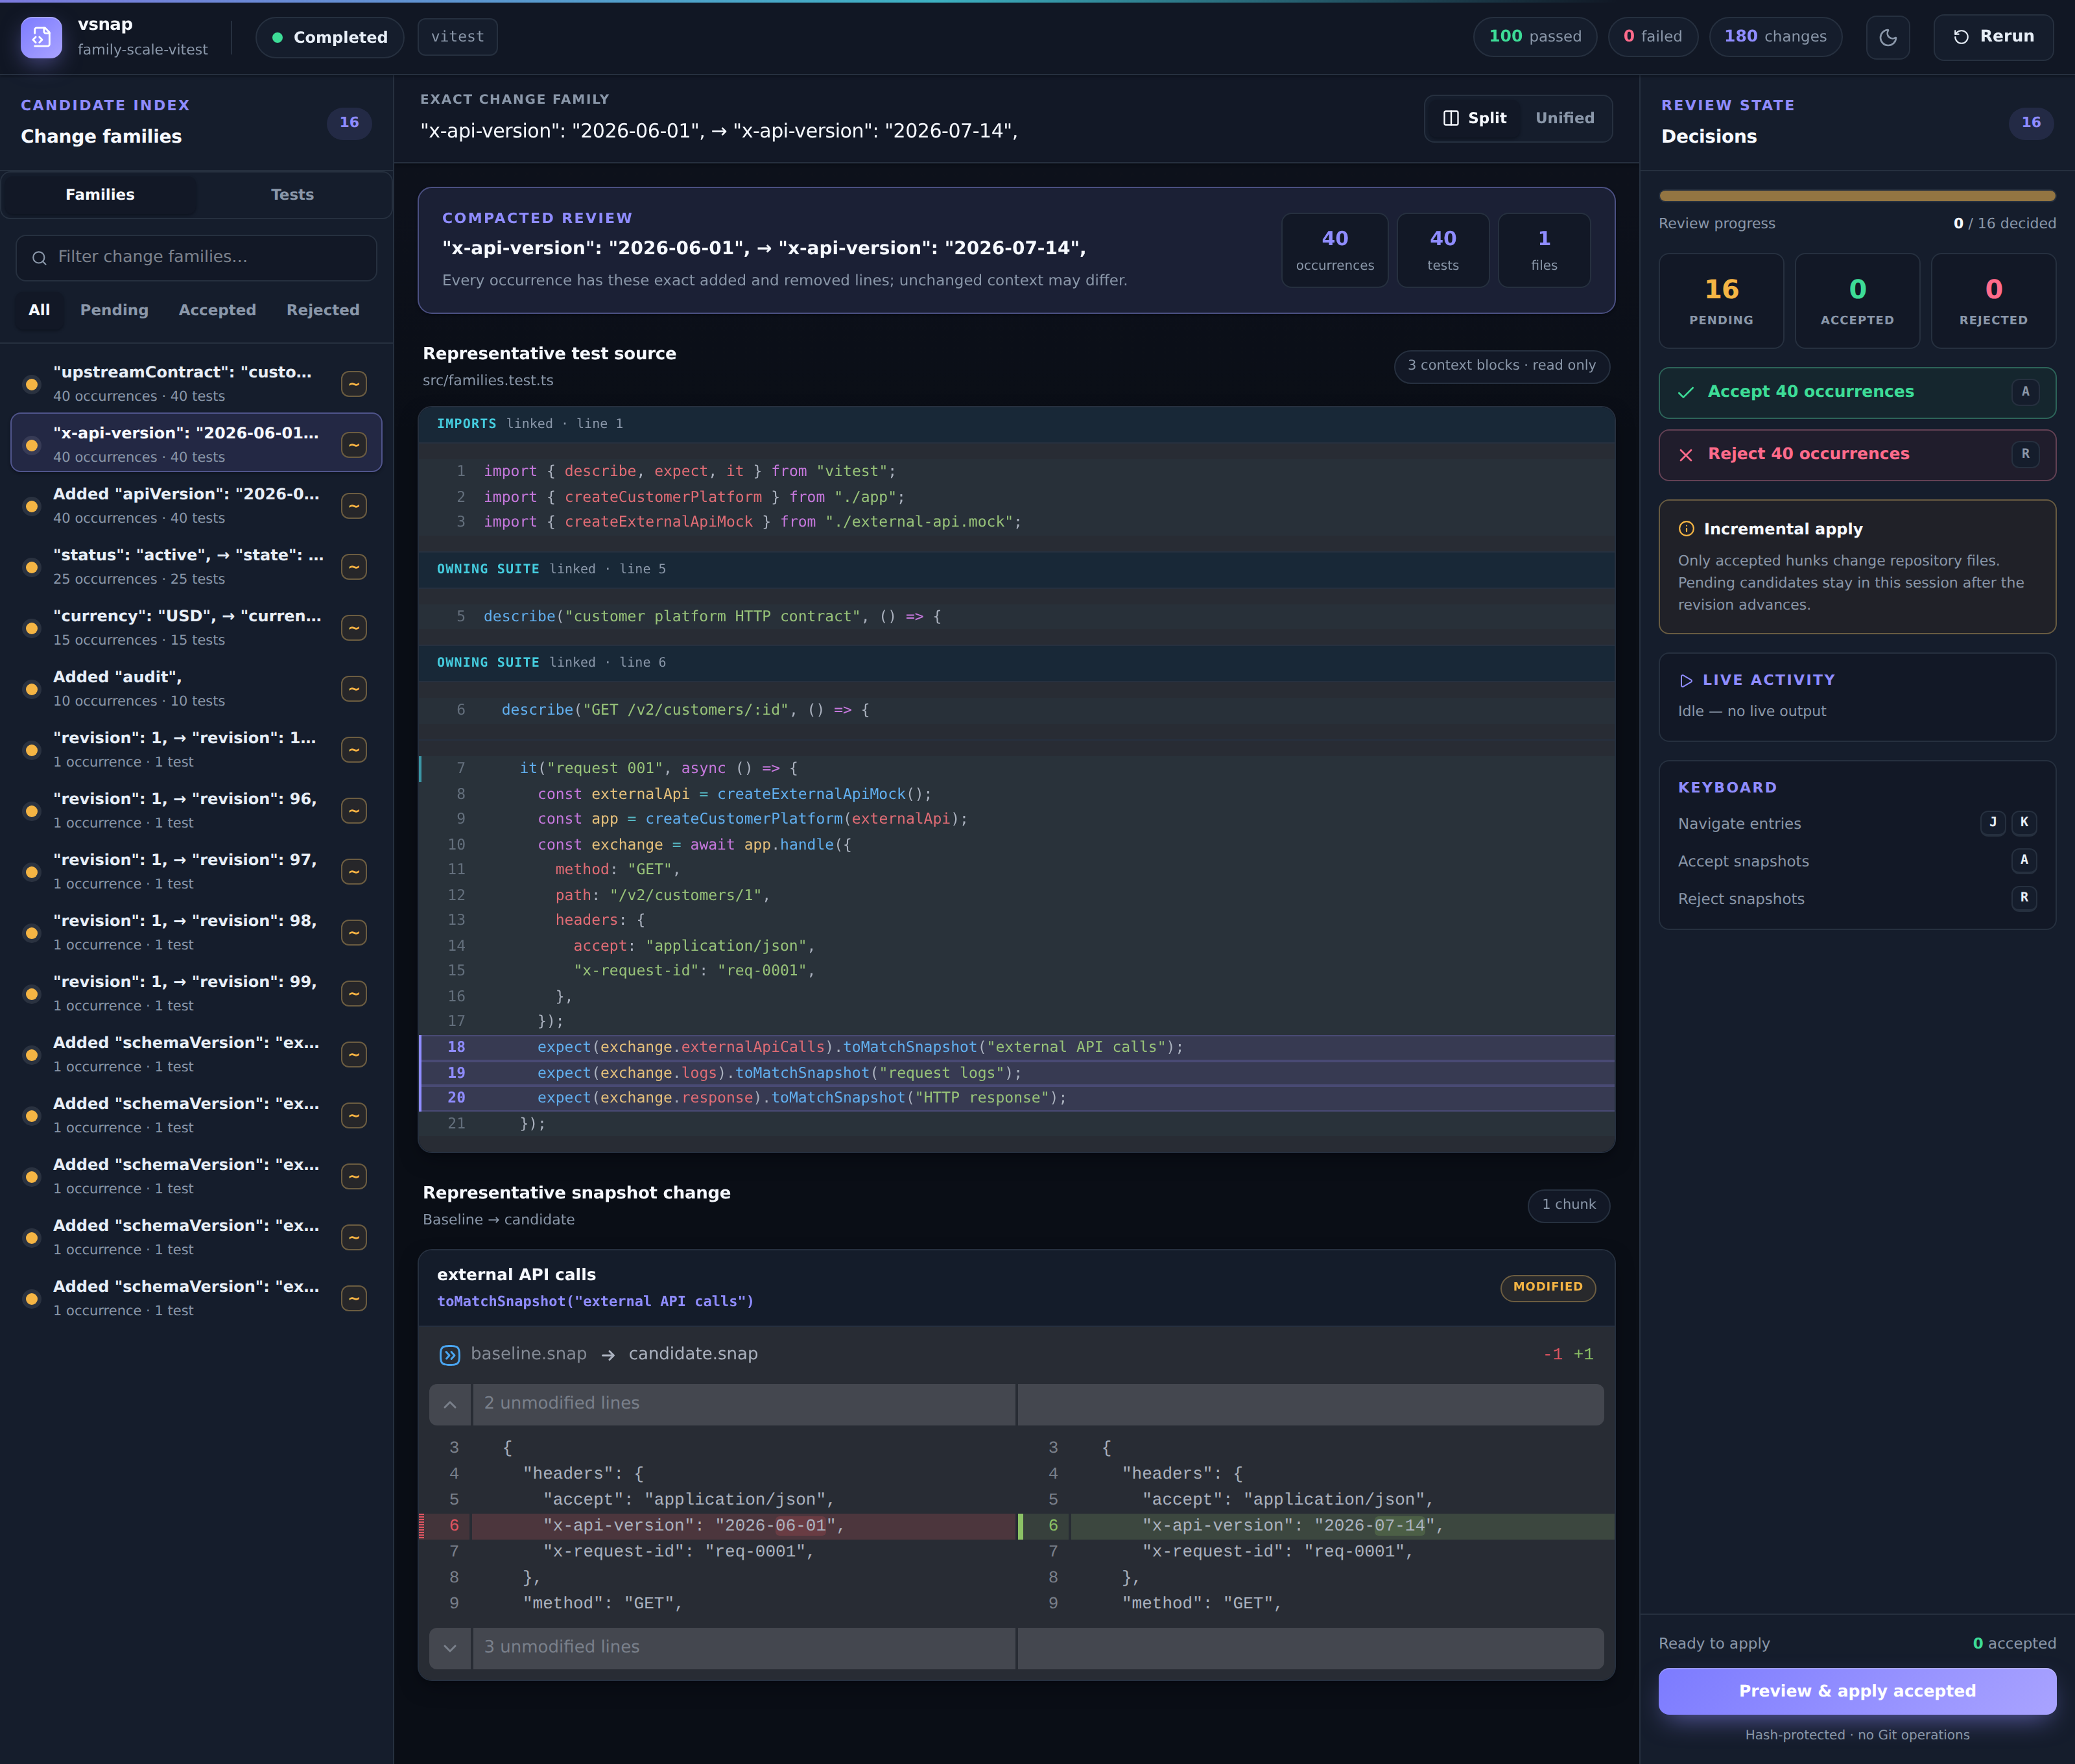
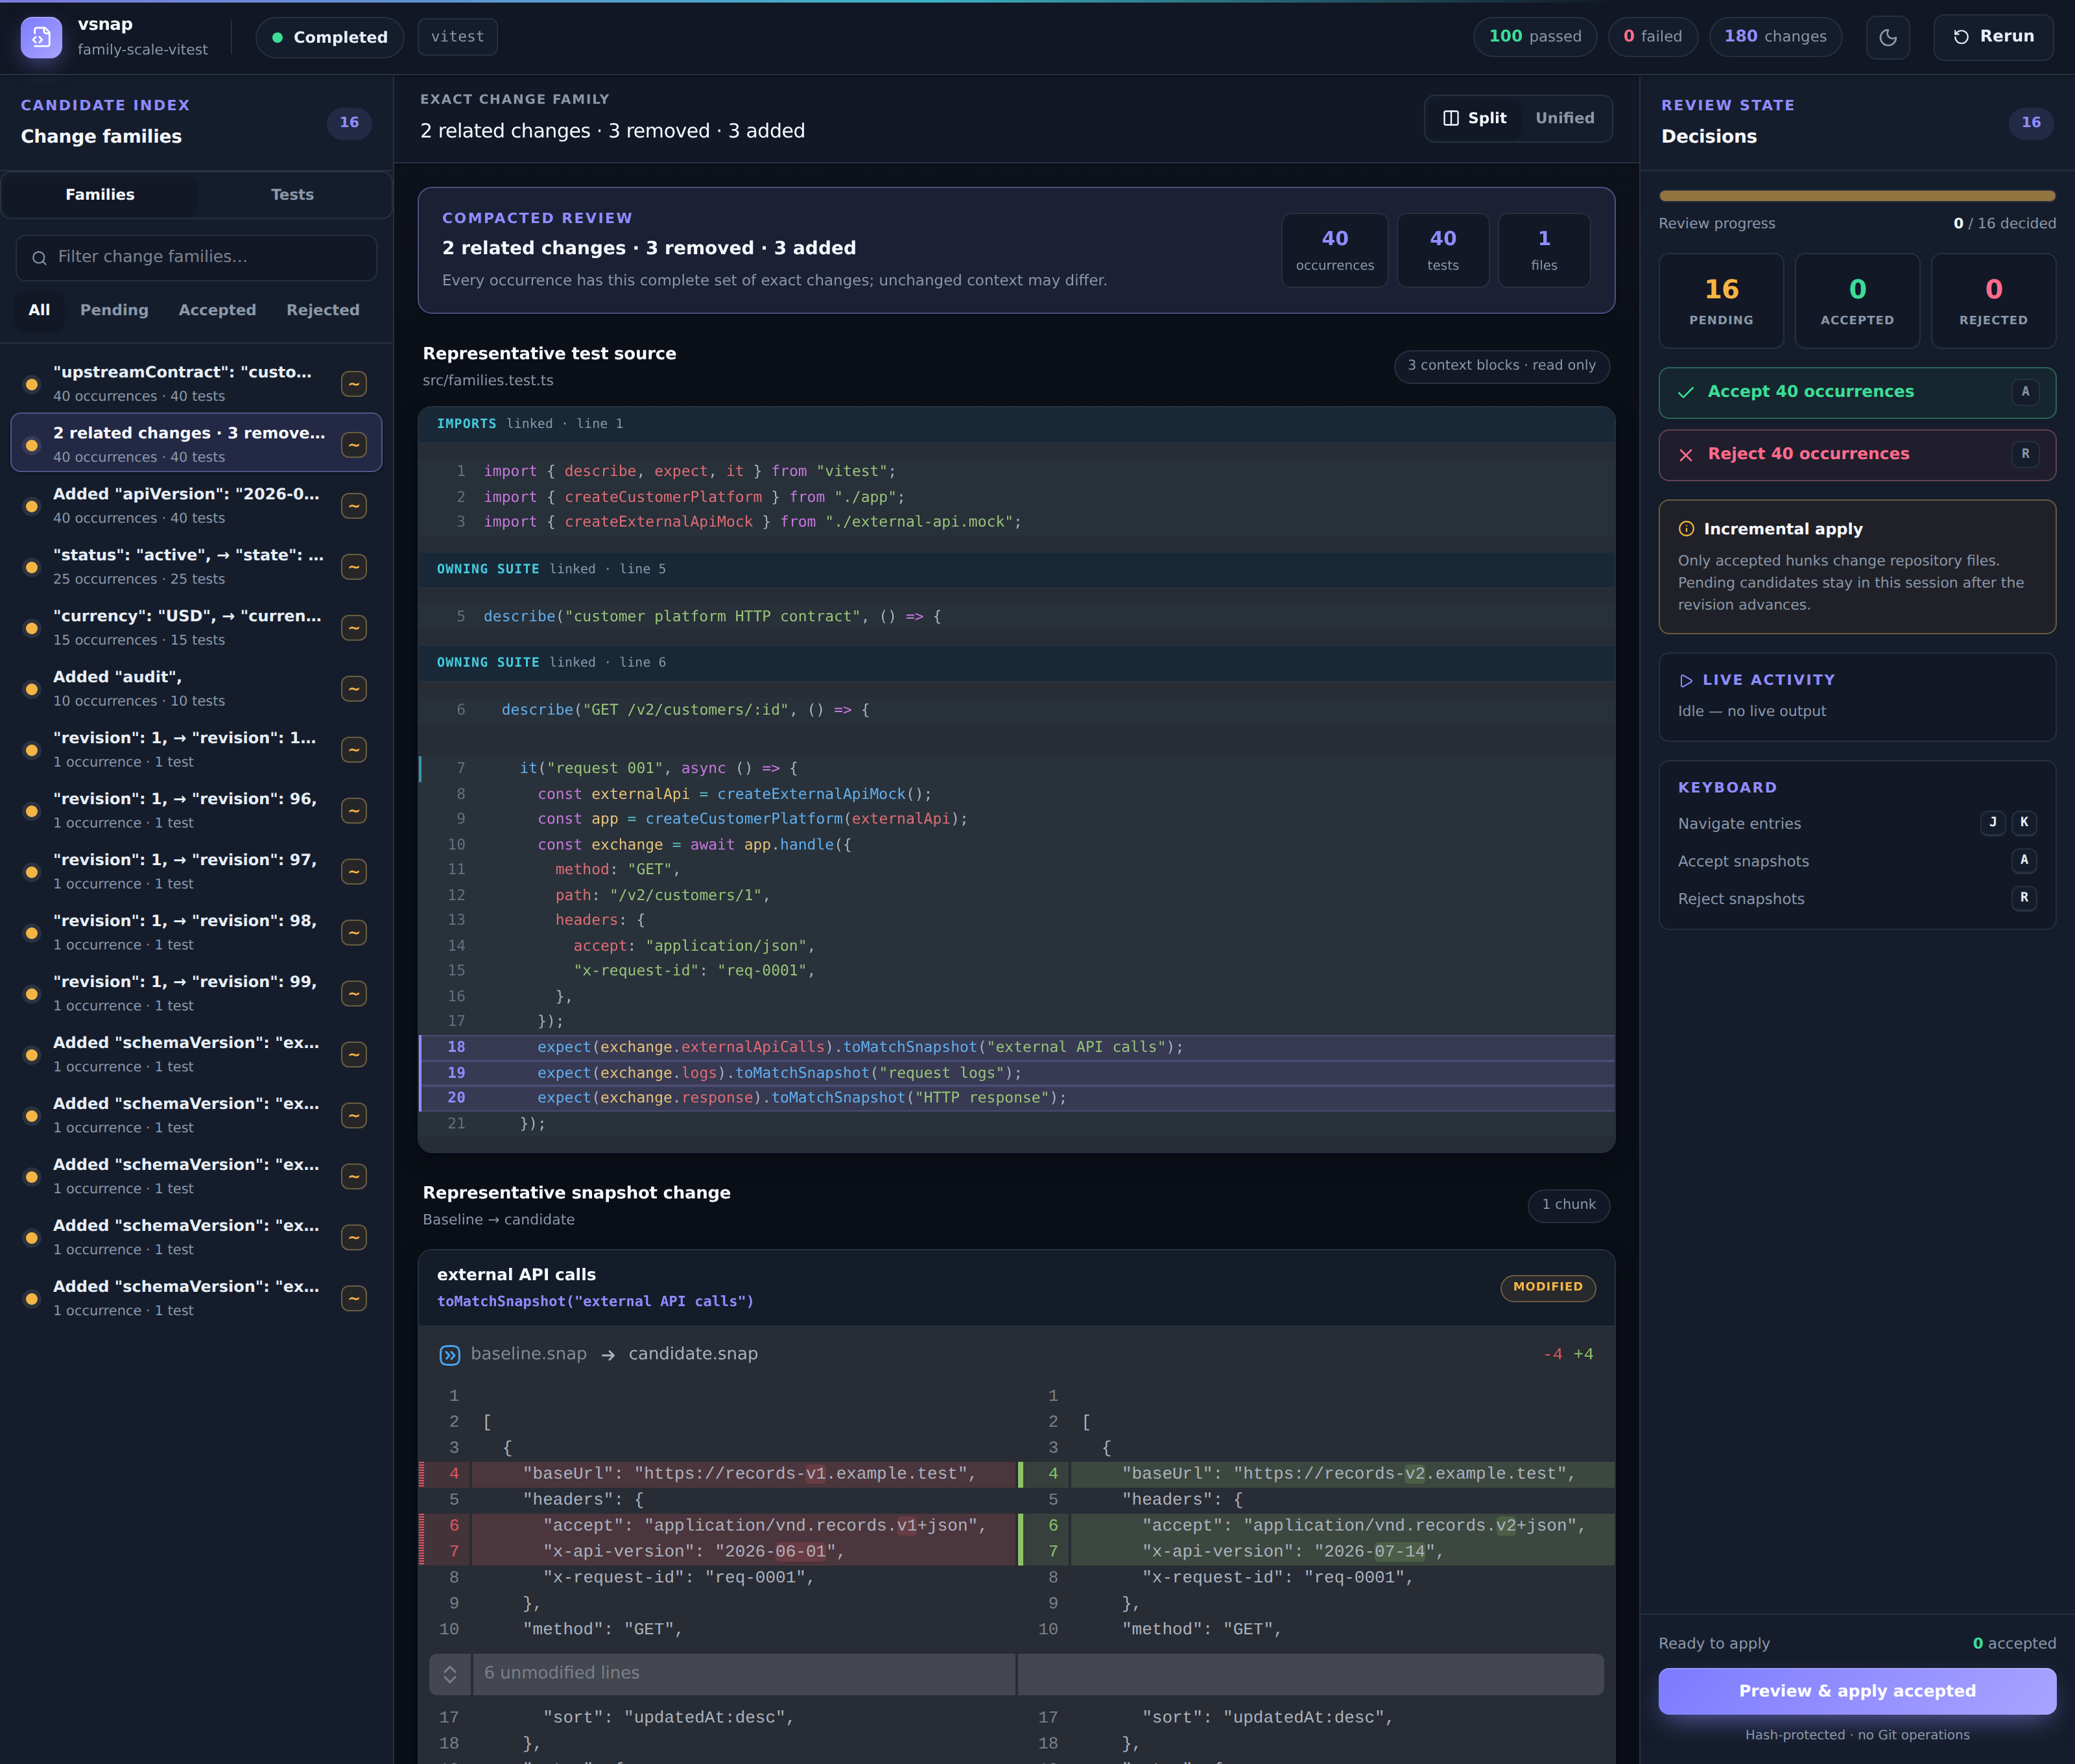
Group complete snapshot diffs into families

diff --git a/packages/application/src/application.ts b/packages/application/src/application.ts
@@ -66,8 +66,28 @@ export function createSnapshotApplication(
   const controllers = new Map<string, AbortController>();
   const exactFamilyId = (contentHash: string) =>
     stableId("family", contentHash);
-  const familyHash = (hunk: ReviewIndex["hunks"][number]) =>
+  const hunkChangeHash = (hunk: ReviewIndex["hunks"][number]) =>
     hunk.changeHash ?? hunk.contentHash;
+  const exactFamilyIndex = (index: ReviewIndex) => {
+    const hunksByEntry = new Map<string, typeof index.hunks>();
+    for (const hunk of index.hunks) {
+      const hunks = hunksByEntry.get(hunk.entryId);
+      if (hunks) hunks.push(hunk);
+      else hunksByEntry.set(hunk.entryId, [hunk]);
+    }
+    const hashByEntry = new Map<string, string>();
+    for (const [entryId, hunks] of hunksByEntry) {
+      hunks.sort(
+        (left, right) =>
+          left.oldStart - right.oldStart || left.newStart - right.newStart,
+      );
+      hashByEntry.set(
+        entryId,
+        sha256(JSON.stringify(hunks.map((hunk) => hunkChangeHash(hunk)))),
+      );
+    }
+    return { hashByEntry, hunksByEntry };
+  };
 
   async function entryValues(
     session: ReviewSession,
@@ -93,12 +113,11 @@ export function createSnapshotApplication(
     selector: string,
   ): StoredReviewEntry[] {
     if (selector.startsWith("family_")) {
-      const entryIds = new Set(
-        index.hunks
-          .filter((hunk) => exactFamilyId(familyHash(hunk)) === selector)
-          .map((hunk) => hunk.entryId),
-      );
-      return index.entries.filter((entry) => entryIds.has(entry.id));
+      const familyIndex = exactFamilyIndex(index);
+      return index.entries.filter((entry) => {
+        const fingerprint = familyIndex.hashByEntry.get(entry.id);
+        return Boolean(fingerprint && exactFamilyId(fingerprint) === selector);
+      });
     }
     if (selector.startsWith("entry_"))
       return index.entries.filter((entry) => entry.id === selector);
@@ -336,23 +355,19 @@ export function createSnapshotApplication(
         return entry.testName?.replace(/ > [^>]+$/, "") ?? entry.key;
       };
       if (input.kind === "family") {
-        const groups = new Map<string, typeof index.hunks>();
-        const entryById = new Map(
-          index.entries.map((entry) => [entry.id, entry]),
-        );
+        const familyIndex = exactFamilyIndex(index);
+        const groups = new Map<string, StoredReviewEntry[]>();
         const fileById = new Map(index.files.map((file) => [file.id, file]));
-        for (const hunk of index.hunks) {
-          const fingerprint = familyHash(hunk);
+        for (const entry of index.entries) {
+          const fingerprint = familyIndex.hashByEntry.get(entry.id);
+          if (!fingerprint) continue;
           const group = groups.get(fingerprint);
-          if (group) group.push(hunk);
-          else groups.set(fingerprint, [hunk]);
+          if (group) group.push(entry);
+          else groups.set(fingerprint, [entry]);
         }
-        for (const [contentHash, hunks] of groups) {
-          const entryIds = [...new Set(hunks.map((hunk) => hunk.entryId))];
-          const entries = entryIds.flatMap((entryId) => {
-            const entry = entryById.get(entryId);
-            return entry ? [entry] : [];
-          });
+        for (const [contentHash, entries] of groups) {
+          const entryIds = entries.map((entry) => entry.id);
+          const hunks = hunksFor(entryIds);
           const testIds = new Set(
             entries.map((entry) => {
               const file = fileById.get(entry.fileId);
@@ -365,24 +380,25 @@ export function createSnapshotApplication(
             }),
           );
           const firstEntry = entries[0];
-          const firstHunk = hunks[0];
+          const representativeHunks = firstEntry
+            ? (familyIndex.hunksByEntry.get(firstEntry.id) ?? [])
+            : [];
+          const firstHunk = representativeHunks[0];
           if (!firstEntry || !firstHunk) continue;
           const changeTypes = new Set(entries.map((entry) => entry.changeType));
           nodes.push({
             id: exactFamilyId(contentHash),
             kind: "family",
             entryId: firstEntry.id,
-            label: firstHunk.summary ?? "Exact snapshot change",
-            decision: deriveDecision(
-              hunks.map((hunk) => ({
-                ...hunk,
-                decision: decisions[hunk.id] ?? ("pending" as const),
-              })),
-            ),
+            label:
+              representativeHunks.length === 1
+                ? (firstHunk.summary ?? "Exact snapshot change")
+                : `${representativeHunks.length} related changes · ${firstHunk.summary ?? "exact snapshot diff"}`,
+            decision: deriveDecision(hunks),
             ...(changeTypes.size === 1
               ? { changeType: firstEntry.changeType }
               : {}),
-            childCount: hunks.length,
+            childCount: entries.length,
             familyHash: contentHash,
             testCount: testIds.size,
             fileCount: new Set(entries.map((entry) => entry.fileId)).size,
@@ -732,17 +748,9 @@ export function createSnapshotApplication(
         const supportedEntryIds = new Set(entries.map((entry) => entry.id));
         const ids = input.selector.startsWith("hunk_")
           ? [input.selector]
-          : input.selector.startsWith("family_")
-            ? index.hunks
-                .filter(
-                  (hunk) =>
-                    supportedEntryIds.has(hunk.entryId) &&
-                    exactFamilyId(familyHash(hunk)) === input.selector,
-                )
-                .map((hunk) => hunk.id)
-            : index.hunks
-                .filter((hunk) => supportedEntryIds.has(hunk.entryId))
-                .map((hunk) => hunk.id);
+          : index.hunks
+              .filter((hunk) => supportedEntryIds.has(hunk.entryId))
+              .map((hunk) => hunk.id);
         if (ids.length === 0)
           throw new VsnapError("SELECTOR_NOT_FOUND", input.selector);
         const decisions = await store.readDecisions(session);

diff --git a/packages/application/src/integration.test.ts b/packages/application/src/integration.test.ts
@@ -94,6 +94,35 @@ describe("transactional integration", () => {
       firstFamilyHunk.changeHash ?? firstFamilyHunk.contentHash;
     if (firstFamilyHunk.summary !== undefined)
       secondFamilyHunk.summary = firstFamilyHunk.summary;
+    familyIndex.hunks.push(
+      {
+        ...firstFamilyHunk,
+        id: "hunk_first-entry-second-change",
+        oldStart: firstFamilyHunk.oldStart + 100,
+        newStart: firstFamilyHunk.newStart + 100,
+        contentHash: "first-entry-second-content",
+        changeHash: "shared-second-change",
+        summary: "Second related change",
+      },
+      {
+        ...secondFamilyHunk,
+        id: "hunk_second-entry-second-change",
+        oldStart: secondFamilyHunk.oldStart + 100,
+        newStart: secondFamilyHunk.newStart + 100,
+        contentHash: "second-entry-second-content",
+        changeHash: "different-second-change",
+        summary: "Second related change",
+      },
+    );
+    await store.writeIndex(session, familyIndex);
+    const splitFamilies = await app.listNodes({
+      sessionId: session.id,
+      kind: "family",
+    });
+    expect(splitFamilies.items).toHaveLength(2);
+    const secondRelatedHunk = familyIndex.hunks.at(-1);
+    if (!secondRelatedHunk) throw new Error("Expected a second related hunk");
+    secondRelatedHunk.changeHash = "shared-second-change";
     await store.writeIndex(session, familyIndex);
     const families = await app.listNodes({
       sessionId: session.id,
@@ -106,6 +135,7 @@ describe("transactional integration", () => {
       childCount: 2,
       testCount: 1,
       fileCount: 1,
+      label: expect.stringContaining("2 related changes"),
     });
     const family = families.items[0];
     if (!family) throw new Error("Expected one exact change family");
@@ -114,7 +144,7 @@ describe("transactional integration", () => {
       selector: family.id,
       decision: "accepted",
     });
-    expect(familyDecision.affectedHunks).toHaveLength(2);
+    expect(familyDecision.affectedHunks).toHaveLength(4);
     const unsafeIndex = await store.readIndex(session);
     const sourceFile = unsafeIndex.files[0];
     if (!sourceFile) throw new Error("Expected indexed snapshot file");

diff --git a/apps/web/src/screens/ReviewPage.tsx b/apps/web/src/screens/ReviewPage.tsx
@@ -122,11 +122,8 @@ export function ReviewPage() {
       (review.data?.entries ?? [])
         .filter(
           (entry) =>
-            !activeNode?.familyHash ||
-            entry.hunks.some(
-              (hunk) =>
-                (hunk.changeHash ?? hunk.contentHash) === activeNode.familyHash,
-            ),
+            activeNode?.kind !== "family" ||
+            entry.entryId === activeNode.entryId,
         )
         .map((entry) => {
           const language = inferSnapshotLanguage(
@@ -154,7 +151,7 @@ export function ReviewPage() {
             ),
           };
         }),
-    [activeNode?.familyHash, review.data],
+    [activeNode?.entryId, activeNode?.kind, review.data],
   );
   const visibleEntryIds = useMemo(
     () => review.data?.entries.map((entry) => entry.entryId) ?? [],
@@ -440,8 +437,8 @@ export function ReviewPage() {
                       <span className="kicker">Compacted review</span>
                       <strong>{activeNode.label}</strong>
                       <p>
-                        Every occurrence has these exact added and removed
-                        lines; unchanged context may differ.
+                        Every occurrence has this complete set of exact changes;
+                        unchanged context may differ.
                       </p>
                     </div>
                     <div className="family-metrics">

diff --git a/packages/protocol/src/index.ts b/packages/protocol/src/index.ts
@@ -191,7 +191,7 @@ export interface ReviewNode {
   changeType?: ChangeType;
   status?: string;
   childCount: number;
-  /** Exact diff fingerprint when this node represents a change family. */
+  /** Exact complete-entry diff fingerprint for a change family. */
   familyHash?: string;
   testCount?: number;
   fileCount?: number;

diff --git a/README.md b/README.md
@@ -72,12 +72,13 @@ Snapshot updates are unusually expensive—especially for coding agents. A
 one-line API change can fail hundreds of tests, and sending every nearly
 identical diff to a model wastes context, tool calls, and tokens.
 
-`vitest-snapshot-tools` fingerprints the exact added and removed lines in every
-hunk and groups identical fingerprints into **change families**. You inspect one
-representative diff, see how many occurrences, tests, and files it affects, and
-accept or reject the entire exact family with a single decision. Singletons and
-genuine outliers stay separate, so compaction never hides a unique change or
-relies on a model guessing that two diffs are equivalent.
+`vitest-snapshot-tools` fingerprints the complete set of exact added and removed
+lines in each snapshot entry and groups identical full diffs into **change
+families**. You inspect one representative diff, see how many occurrences,
+tests, and files it affects, and accept or reject the entire exact family with a
+single decision. Multi-hunk changes stay together, while singletons and genuine
+outliers remain separate, so compaction never hides a unique change or relies
+on a model guessing that two diffs are equivalent.
 
 For the bundled 100-test scale example, the review workload shrinks like this:
 
@@ -133,9 +134,9 @@ snapshots or when an automated agent is doing the review.
 
 1. **Capture** — run Vitest with an overlay snapshot environment and store the
    baseline and candidate outside the repository.
-2. **Review** — compact identical added and removed lines into exact change
-   families, or inspect the imports, owning suite, linked hooks, focused test,
-   snapshot matcher, and full diff.
+2. **Review** — compact identical complete snapshot-entry diffs into exact
+   change families, or inspect the imports, owning suite, linked hooks, focused
+   test, snapshot matcher, and full diff.
 3. **Decide** — accept or reject a family, file, test, entry, or individual diff
    hunk.
 4. **Preview** — inspect the exact patch assembled from accepted hunks.

diff --git a/skills/review-vitest-snapshots/SKILL.md b/skills/review-vitest-snapshots/SKILL.md
@@ -10,10 +10,11 @@ Use `vsnap` as the sole interface to candidate snapshots. Never edit real snapsh
 ## Minimize model context
 
 Start with exact families. Do not enumerate or diff every entry when multiple
-hunks belong to the same family. A family is an exact added/removed-line
-fingerprint, not a semantic guess: inspect its representative `entryId` once,
-check its occurrence, test, and file counts, then make one family decision when
-the change is intended across that scope. Review singleton families separately.
+entries have the same complete diff. A family fingerprints the ordered set of
+exact added/removed-line hunks for a snapshot entry, not a semantic guess:
+inspect its representative `entryId` once, check its occurrence, test, and file
+counts, then make one family decision when the change is intended across that
+scope. Review singleton families separately.
 
 This ordering reduces CLI payloads, repeated diff content, tool calls, and model
 tokens without weakening the apply safeguards.
@@ -45,8 +46,8 @@ Do not skip preview. Pending hunks remain at their baseline in preview and remai
 
 Use typed `family_`, `file_`, `test_`, `entry_`, and `hunk_` IDs returned by
 `list`; use `--all` only when the request clearly approves the entire run.
-Family selectors are exact added/removed-line matches and expand to their
-underlying hunks.
+Family selectors are exact complete-entry diff matches and expand to every
+underlying hunk in each matching entry.
 Commands automatically forward to an authenticated active UI owner when
 present and otherwise operate directly under a session lock.
 

diff --git a/packages/vitest-snapshot-tools/README.md b/packages/vitest-snapshot-tools/README.md
@@ -30,10 +30,10 @@ Everything after `--` is passed to Vitest.
 ## Agent skill and token-efficient review
 
 A repeated API or rendering change can appear in hundreds of snapshots. Instead
-of sending every diff through an agent, the CLI groups hunks with exactly the
-same added and removed lines. The agent reviews one representative diff and can
-accept or reject all occurrences with one `family_...` selector. Unique changes
-remain separate.
+of sending every diff through an agent, the CLI groups snapshot entries with
+the same complete set of added and removed lines. The agent reviews one
+representative diff and can accept or reject all occurrences with one
+`family_...` selector. Unique changes remain separate.
 
 ```sh
 npx vitest-snapshot-tools skill install

diff --git a/skills/review-vitest-snapshots/references/cli-json.md b/skills/review-vitest-snapshots/references/cli-json.md
@@ -28,7 +28,7 @@ Failure:
 }
 ```
 
-The `run` result includes `id`, `revision`, `state`, `parentSessionId` when linked, aggregate `summary`, and `exactFamilies`, the number of distinct exact change families. Node pages contain `items`, `total`, and optional `nextCursor`. `families --json` is the family-first shorthand for `list --kind family --json`. Each node has a typed stable `id`, hierarchy `kind`, `decision`, label, and child count. Exact family nodes also include a representative `entryId`, fingerprint, exact confidence, occurrence count in `childCount`, and affected test/file counts.
+The `run` result includes `id`, `revision`, `state`, `parentSessionId` when linked, aggregate `summary`, and `exactFamilies`, the number of distinct exact change families. Node pages contain `items`, `total`, and optional `nextCursor`. `families --json` is the family-first shorthand for `list --kind family --json`. Each node has a typed stable `id`, hierarchy `kind`, `decision`, label, and child count. Exact family nodes also include a representative `entryId`, a fingerprint of the complete ordered hunk set, exact confidence, entry occurrence count in `childCount`, and affected test/file counts.
 
 Diff data includes `baseline`, `candidate`, and hunks with range fields, a content hash, and decision. Preview data includes the exact repository `patch`, file `operations`, `expectedRevision`, and separate `acceptedHunks`, `rejectedHunks`, and `pendingHunks` arrays. Apply data includes a result code, new revision, written paths, and remaining hunk count.
 